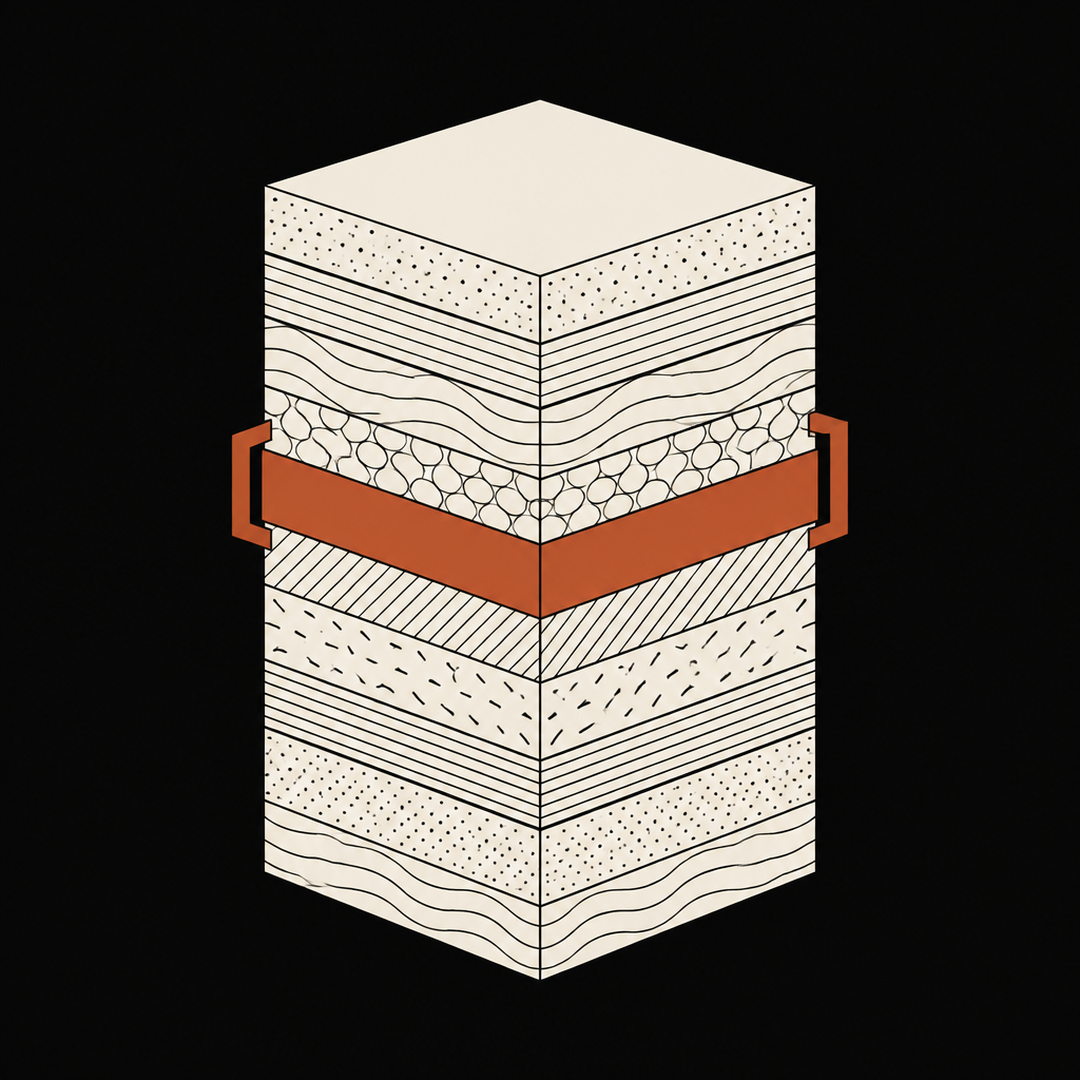
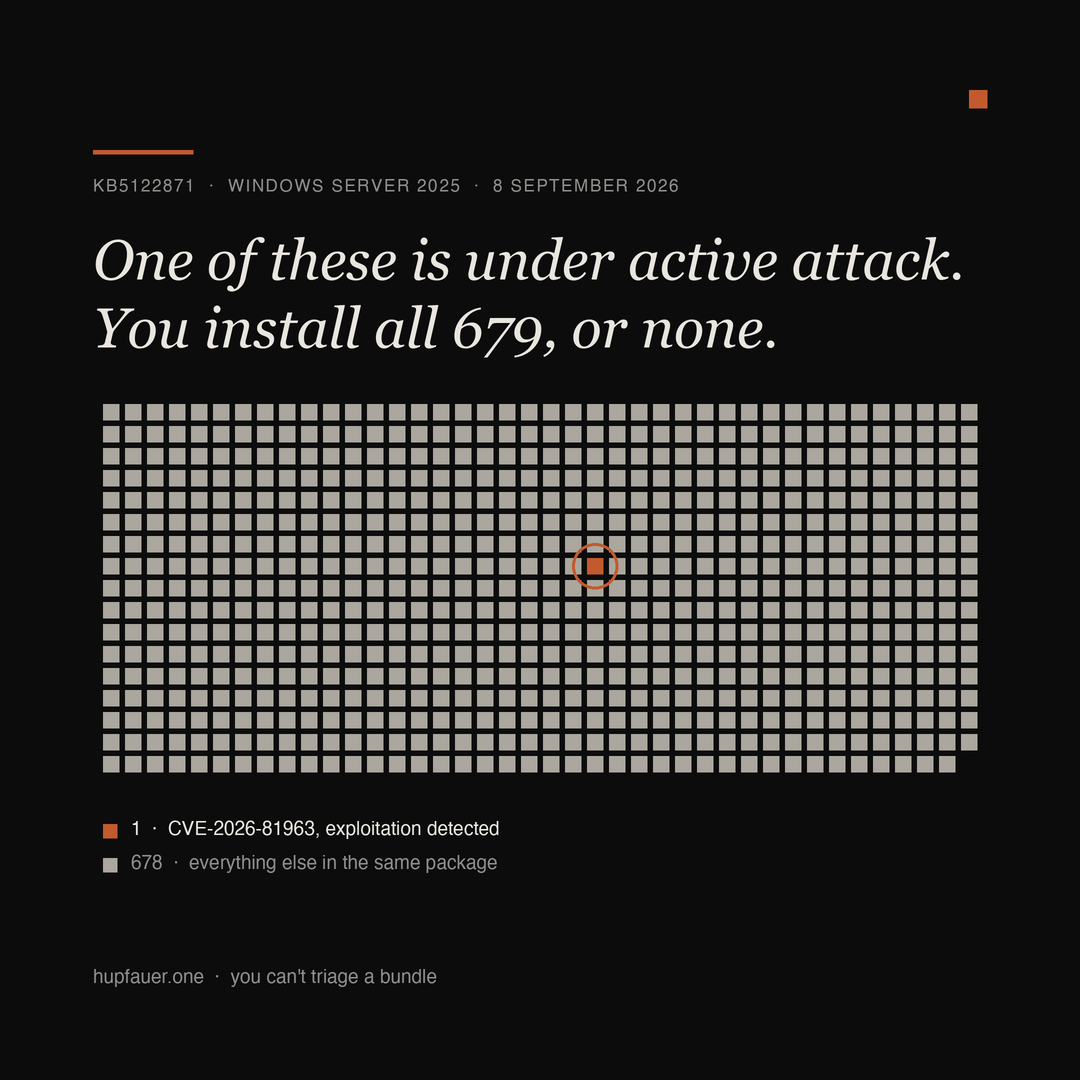
Replace AI-generated LinkedIn creative with a unit chart of the 679-CVE bundle

diff --git a/social/linkedin/build/build-creative.py b/social/linkedin/build/build-creative.py
@@ -1,0 +1,158 @@
+#!/usr/bin/env python3
+"""
+Render the LinkedIn creative for "You can't triage a bundle" at 1080x1080 PNG.
+
+A unit chart: one square per CVE fixed by KB5122871, the September 2026
+cumulative update for Windows Server 2025. 679 squares, exactly one of which
+is under active exploitation — and no mechanism exists to install only it.
+
+Every number here is counted from Microsoft's own machine-readable release
+data (MSRC CVRF for 2026-Sep), not from press coverage:
+
+    679  CVEs whose remediation list cites KB5122871
+      1  of those with the MSRC threat string "Exploited:Yes"
+           -> CVE-2026-81963, Windows Update Stack elevation of privilege
+
+Drawn at 2x and downsampled so the grid and the ring come out crisp.
+
+Output: social/linkedin/out/creative/you-cant-triage-a-bundle.png
+"""
+
+from __future__ import annotations
+
+from pathlib import Path
+
+from PIL import Image, ImageDraw, ImageFont
+
+# --- palette (matches build-quotes.py and the blog covers) ---
+INK = (12, 12, 13)
+PAPER = (233, 230, 223)
+RUST = (194, 90, 46)
+MUTED = (141, 141, 138)
+DIM = (171, 167, 158)  # #ABA79E — chosen with the dataviz palette validator:
+                       # vs RUST it scores CVD deltaE 15.8 (deutan) and 19.5
+                       # normal-vision, both comfortably above the floors. A
+                       # darker grey looked better but collapsed to deltaE 7.9
+                       # under protanopia, leaving the ring as the only cue.
+
+S = 2  # supersample factor
+W = H = 1080 * S
+PAD = 93 * S
+
+SERIF_ITALIC_PATH = "/System/Library/Fonts/Supplemental/Georgia Italic.ttf"
+SANS_PATH = "/System/Library/Fonts/Helvetica.ttc"
+
+# --- the data ---
+TOTAL = 679
+EXPLOITED_INDEX = 302  # arbitrary cell; position carries no meaning
+COLS = 40
+CELL = 16 * S
+GAP = 6 * S
+PITCH = CELL + GAP
+
+HEADLINE = "One of these is under active attack. You install all 679, or none."
+KICKER = "KB5122871  ·  WINDOWS SERVER 2025  ·  8 SEPTEMBER 2026"
+ATTRIB = "hupfauer.one  ·  you can't triage a bundle"
+
+OUT_DIR = Path(__file__).resolve().parent.parent / "out" / "creative"
+
+
+def track(draw: ImageDraw.ImageDraw, xy, text, font, fill, spacing):
+    """Draw text with manual letter-spacing."""
+    x, y = xy
+    for ch in text:
+        draw.text((x, y), ch, font=font, fill=fill)
+        x += draw.textlength(ch, font=font) + spacing
+    return x
+
+
+def wrap(draw: ImageDraw.ImageDraw, text: str, font, max_w: int) -> list[str]:
+    lines, line = [], ""
+    for word in text.split():
+        trial = (line + " " + word).strip()
+        if draw.textlength(trial, font=font) <= max_w:
+            line = trial
+        else:
+            if line:
+                lines.append(line)
+            line = word
+    if line:
+        lines.append(line)
+    return lines
+
+
+def main() -> int:
+    img = Image.new("RGB", (W, H), INK)
+    d = ImageDraw.Draw(img)
+
+    f_head = ImageFont.truetype(SERIF_ITALIC_PATH, 56 * S)
+    f_kick = ImageFont.truetype(SANS_PATH, 17 * S)
+    f_legend = ImageFont.truetype(SANS_PATH, 19 * S)
+    f_attrib = ImageFont.truetype(SANS_PATH, 19 * S)
+
+    # rust corner mark, matching the quote cards
+    d.rectangle([W - PAD - 18 * S, 90 * S, W - PAD, 108 * S], fill=RUST)
+
+    # short rust rule above the headline
+    d.rectangle([PAD, 150 * S, PAD + 100 * S, 154 * S], fill=RUST)
+
+    # kicker
+    track(d, (PAD, 178 * S), KICKER, f_kick, MUTED, 1.6 * S)
+
+    # headline
+    y = 228 * S
+    for line in wrap(d, HEADLINE, f_head, W - 2 * PAD):
+        d.text((PAD, y), line, font=f_head, fill=PAPER)
+        y += 68 * S
+
+    # --- the unit chart ---
+    grid_w = COLS * PITCH - GAP
+    x0 = (W - grid_w) // 2
+    y0 = int(y) + 40 * S
+
+    for i in range(TOTAL):
+        r, c = divmod(i, COLS)
+        cx = x0 + c * PITCH
+        cy = y0 + r * PITCH
+        if i == EXPLOITED_INDEX:
+            d.rectangle([cx, cy, cx + CELL, cy + CELL], fill=RUST)
+        else:
+            d.rectangle([cx, cy, cx + CELL, cy + CELL], fill=DIM)
+
+    # ring around the exploited cell — secondary encoding, so identity is
+    # never carried by colour alone (and so it survives feed downscaling)
+    er, ec = divmod(EXPLOITED_INDEX, COLS)
+    ecx = x0 + ec * PITCH + CELL / 2
+    ecy = y0 + er * PITCH + CELL / 2
+    rad = 23 * S
+    d.ellipse([ecx - rad, ecy - rad, ecx + rad, ecy + rad], outline=RUST, width=3 * S)
+
+    rows = -(-TOTAL // COLS)
+    grid_bottom = y0 + rows * PITCH - GAP
+
+    # --- legend ---
+    ly = grid_bottom + 52 * S
+    sw = 14 * S
+    d.rectangle([x0, ly, x0 + sw, ly + sw], fill=RUST)
+    d.text((x0 + sw + 14 * S, ly - 4 * S),
+           "1  ·  CVE-2026-81963, exploitation detected",
+           font=f_legend, fill=PAPER)
+
+    ly2 = ly + 34 * S
+    d.rectangle([x0, ly2, x0 + sw, ly2 + sw], fill=DIM)
+    d.text((x0 + sw + 14 * S, ly2 - 4 * S),
+           "678  ·  everything else in the same package",
+           font=f_legend, fill=MUTED)
+
+    # --- attribution ---
+    d.text((PAD, H - 112 * S), ATTRIB, font=f_attrib, fill=MUTED)
+
+    OUT_DIR.mkdir(parents=True, exist_ok=True)
+    out = OUT_DIR / "you-cant-triage-a-bundle.png"
+    img.resize((1080, 1080), Image.LANCZOS).save(out, format="PNG", optimize=True)
+    print(f"✓ wrote {out} ({out.stat().st_size // 1024} KB)")
+    return 0
+
+
+if __name__ == "__main__":
+    raise SystemExit(main())

diff --git a/social/README.md b/social/README.md
@@ -35,16 +35,17 @@ python3 social/linkedin/build/build-carousel.py
 python3 social/linkedin/build/build-audiograms.py
 ```
 
-## Creatives (AI-generated)
+## Creatives
 
-Square 1080x1080 feed images live in `linkedin/out/creative/<post-slug>.png`. Unlike the quote cards and carousel, these are **not** rebuildable from `linkedin/build/` — they come from `scripts/gen-social-creative.py`, which is gitignored because it carries an API key, and image generation is not deterministic. The committed PNG is the master; re-running produces a different image.
+Square 1080×1080 feed images at `linkedin/out/creative/<post-slug>.png`, built by `linkedin/build/build-creative.py` like every other visual here — Pillow only, no credentials, deterministic, safe to re-run.
 
-```sh
-./scripts/gen-social-creative.py <post-slug> "<visual concept>" --variants 2
-```
+**Make the creative a chart, not an illustration.** The first attempt at this used image generation, and it looked like stock AI art: a handsome motif that carried no information. A feed image has room for exactly one idea, and the idea should be a number you can defend. The current creative is a unit chart — one square per CVE in KB5122871, 679 of them, with the single square that is under active exploitation ringed in rust. The insight is the picture.
 
-Two things that matter, both learned by getting them wrong first:
+Rules that came out of building it:
 
-- Use `gpt-image-2.5-flare`, not `gpt-image-2.5-sunburst`. Sunburst draws much finer line work, which moires into a flat grey block the moment LinkedIn rescales the image to feed width — the motif disappears entirely.
-- The script's `FRAMING` prompt block forces the motif to fill ~70% of the frame and to survive being scaled to 300px. Without it you get an elegant small motif with lots of negative space that reads as nothing in a feed. The blog *cover* style guide optimises for a wide hero image on a white page; a feed creative has a different job and needs the accent colour to carry at thumbnail size.
+- **Numbers come from primary data.** The figures are counted from Microsoft's MSRC CVRF feed, not from press coverage. Anything on a public graphic gets verified first — the release-wide "966" is not the same as the 679 in one package, and putting the wrong one on a card invites a correction in the comments.
+- **Check it at feed size before shipping.** Downscale to 500 / 300 / 160px and look. Headline must survive 300px; the accent mark must stay findable.
+- **Validate the mark colours, don't eyeball them.** The grid grey was chosen with a palette validator against the rust accent: the first pick looked better but scored ΔE 7.9 under protanopia, which leaves a colourblind reader nothing but the ring. `#ABA79E` scores 15.8 and reads brighter anyway.
+- **Give the accent a second cue.** The exploited cell is rust *and* ringed *and* named in the legend, so identity never rests on colour alone.
 
+Typography and palette follow the quote cards: ink black ground, Georgia Italic headline in cream, Helvetica for kicker and legend, rust rule and corner mark.

diff --git a/social/linkedin/posts/you-cant-triage-a-bundle-01-chart.md b/social/linkedin/posts/you-cant-triage-a-bundle-01-chart.md
@@ -1,0 +1,42 @@
+# bundle 01 · Chart — 679 in one package, one of them exploited
+
+Square 1080×1080 unit chart at `out/creative/you-cant-triage-a-bundle.png`, rebuilt by `build/build-creative.py`. First atom for the post ["You can't triage a bundle"](https://hupfauer.one/posts/you-cant-triage-a-bundle/).
+
+Named by post slug rather than folded into the flat `01–04` set, which belongs to the "which agent bricked prod?" campaign.
+
+Recommended slot: Tuesday or Thursday, 08:30 CET. The hook does its work in the first two lines, before LinkedIn's "see more" cut — do not bury the 679 below it.
+
+Every figure in the copy is counted from Microsoft's MSRC CVRF release data for 2026-Sep, not from press coverage: 679 CVEs cite KB5122871 (Windows Server 2025 only), exactly one of which carries `Exploited:Yes` — CVE-2026-81963. Worth saying out loud in the post, because the widely quoted "966" is the release-wide figure across all products and invites a correction in the comments.
+
+---
+
+## English (post body)
+
+> Microsoft's September update for Windows Server 2025 fixes 679 CVEs in one package. Exactly one of them is under active exploitation.
+>
+> There is no way to install only that one.
+>
+> Not in WSUS, not in Intune, not in any patching product on the market. Inside a Windows cumulative update you take the applicable contents whole, or you take none of them. So the ranked list your vulnerability programme produces — CVSS, EPSS, KEV, pick your framework — cannot be expressed at the one moment it was supposed to pay off.
+>
+> The same update then left Remote Desktop Services unstable on everything from Windows 11 back to Server 2012. Microsoft's published workaround: stop the VM, deallocate it, start it again, and wait for a future update. Roll the package back to get your session hosts working again and you have just handed back 679 fixes, including the one being exploited.
+>
+> Fifteen years of risk-based vulnerability management bought us the ability to rank a list we are not allowed to act on — on the largest and most uniform estate most of us own.
+>
+> AI-scale discovery didn't break patching. It broke triage.
+>
+> What's left is unglamorous. Make rollout, compensating controls and validation autonomous, because elapsed human time is the only variable in this you actually control. Then keep exactly two things human: what "working" means for each critical service, and who carries the exposure on the month when neither option is safe.
+>
+> Counted from Microsoft's own release data, not from the coverage. Full piece in the comments.
+>
+> #PatchManagement #VulnerabilityManagement #WindowsServer #AIsecurity #GeneratedByOpus #AI_Generated
+
+**First comment:** https://hupfauer.one/posts/you-cant-triage-a-bundle/
+
+---
+
+## Image text
+
+KICKER: KB5122871 · WINDOWS SERVER 2025 · 8 SEPTEMBER 2026
+HEADLINE: One of these is under active attack. You install all 679, or none.
+LEGEND: 1 · CVE-2026-81963, exploitation detected / 678 · everything else in the same package
+ATTRIBUTION: hupfauer.one · you can't triage a bundle
